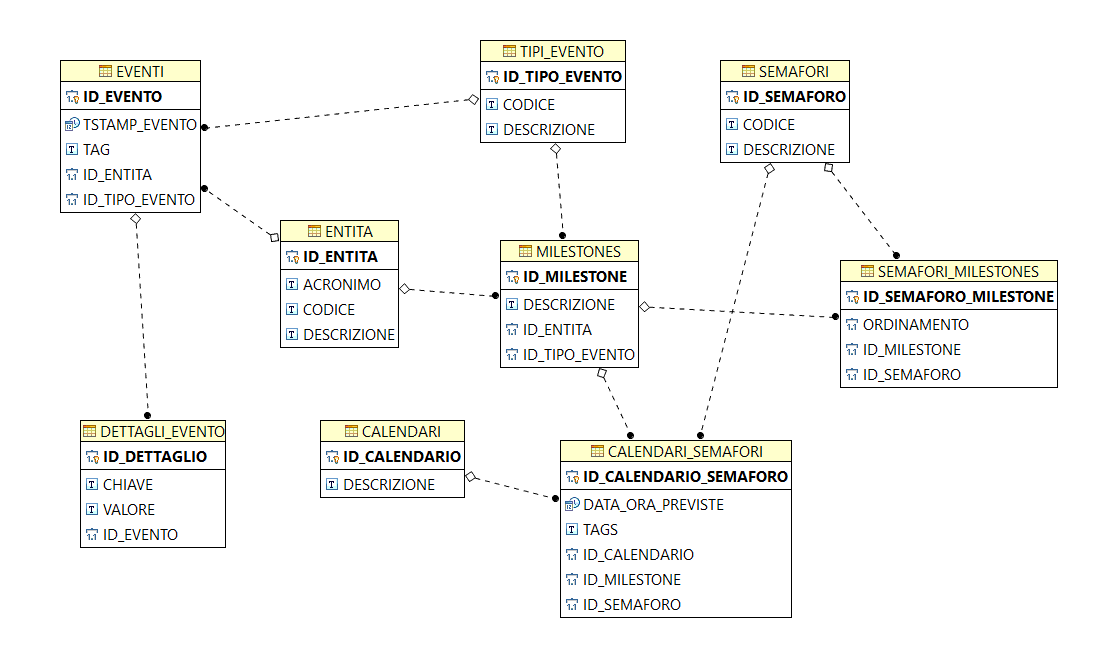
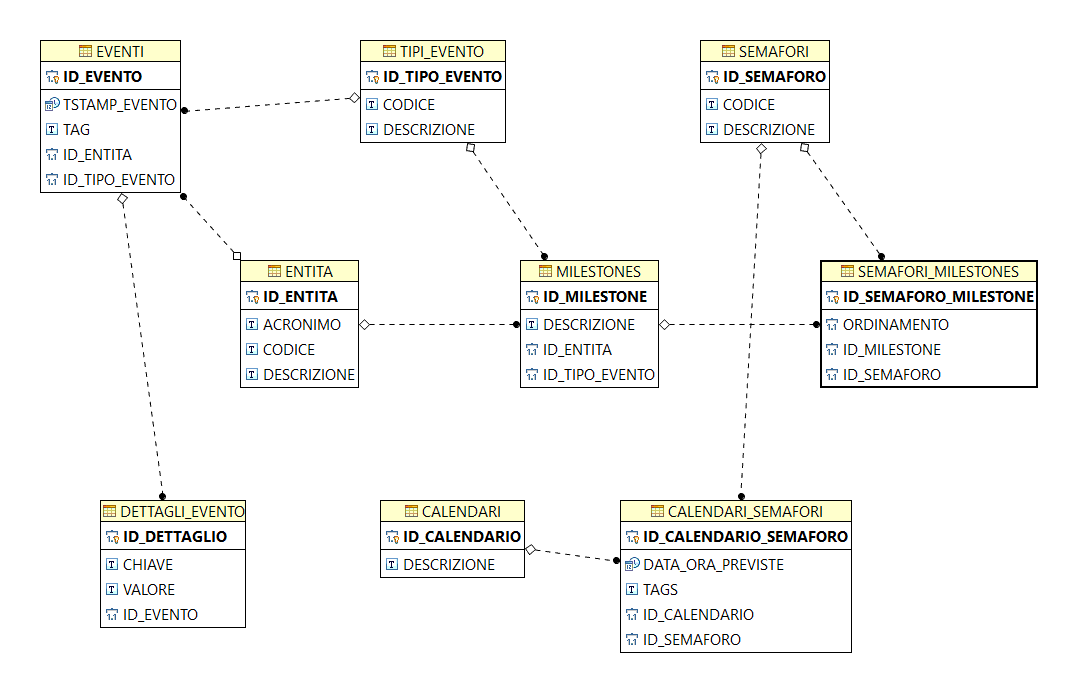
Modifiche 29052017
Rimossa la voce "idMilestone" dalla tabella "CALENDARI_SEMAFORI",
aggiornate tutte le classi collegate, aggiornato lo schema del DB

diff --git a/src/main/java/it/finsoft/entity/CalendarioSemaforo.java b/src/main/java/it/finsoft/entity/CalendarioSemaforo.java
@@ -31,9 +31,11 @@ public class CalendarioSemaforo implements Serializable {
 	@ManyToOne(optional = false)
 	private Calendario calendario;
 
+	/*
 	@JoinColumn(name = "ID_MILESTONE", referencedColumnName = "ID_MILESTONE")
 	@ManyToOne(optional = false)
 	private Milestone milestone;
+	*/
 
 	@Column(name = "TAGS")
 	private String tags;
@@ -45,11 +47,11 @@ public class CalendarioSemaforo implements Serializable {
 
 	}
 
-	public CalendarioSemaforo(Semaforo semaforo, Calendario calendario, Milestone milestone, String tags,
+	public CalendarioSemaforo(Semaforo semaforo, Calendario calendario, /*Milestone milestone,*/ String tags,
 			Date dataOraPreviste) {
 		this.semaforo = semaforo;
 		this.calendario = calendario;
-		this.milestone = milestone;
+		/*this.milestone = milestone;*/
 		this.tags = tags;
 		this.dataOraPreviste = dataOraPreviste;
 	}
@@ -78,6 +80,7 @@ public class CalendarioSemaforo implements Serializable {
 		this.calendario = calendario;
 	}
 
+	/*
 	public Milestone getMilestone() {
 		return milestone;
 	}
@@ -85,6 +88,7 @@ public class CalendarioSemaforo implements Serializable {
 	public void setMilestone(Milestone milestone) {
 		this.milestone = milestone;
 	}
+	*/
 
 	public String getTags() {
 		return tags;
@@ -137,7 +141,7 @@ public class CalendarioSemaforo implements Serializable {
 	@Override
 	public String toString() {
 		return "CalendarioSemaforo [idCalendarioSemaforo=" + idCalendarioSemaforo + ", semaforo=" + semaforo
-				+ ", calendario=" + calendario + ", milestone=" + milestone + ", tags=" + tags + ", dataOraPreviste="
+				+ ", calendario=" + calendario + /*", milestone=" + milestone +*/ ", tags=" + tags + ", dataOraPreviste="
 				+ dataOraPreviste + "]";
 	}
 

diff --git a/src/main/java/it/finsoft/resources/CalendarioSemaforoResources.java b/src/main/java/it/finsoft/resources/CalendarioSemaforoResources.java
@@ -32,7 +32,7 @@ public class CalendarioSemaforoResources {
 	CalendarioSemaforoManager csm;
 	CalendarioManager cm;
 	SemaforoManager sm;
-	MilestoneManager mm;
+	/*MilestoneManager mm;*/
 	/* test inserimento calendari semafori */
 
 	@GET
@@ -75,11 +75,11 @@ public class CalendarioSemaforoResources {
 	@GET
 	@Path("inscalsem")
 	public CalendarioSemaforo create(@QueryParam("tags") String tags, @QueryParam("semaforo") Long ids,
-			@QueryParam("calendario") Long idc, @QueryParam("milestone") Long idm) {
+			@QueryParam("calendario") Long idc) /*, @QueryParam("milestone") Long idm)*/ {
 		CalendarioSemaforo cals = new CalendarioSemaforo();
 		cals.setSemaforo(sm.findById(ids));
 		cals.setCalendario(cm.findById(idc));
-		cals.setMilestone(mm.findById(idm));
+		/*cals.setMilestone(mm.findById(idm));*/
 		cals.setTags(tags);
 		;
 		return csm.save(cals);

diff --git a/src/main/java/it/finsoft/resources/WSCollector.java b/src/main/java/it/finsoft/resources/WSCollector.java
@@ -78,7 +78,6 @@ public class WSCollector {
 			}
 			// per ogni chiave, inserire un record chiave/valore nella tabella
 			// dettagli
-			System.out.println("errore qui");
 			eventom.save(e);
 			result.evento = e;
 			result.listaDettagli.addAll(listaDettagliEvento);
